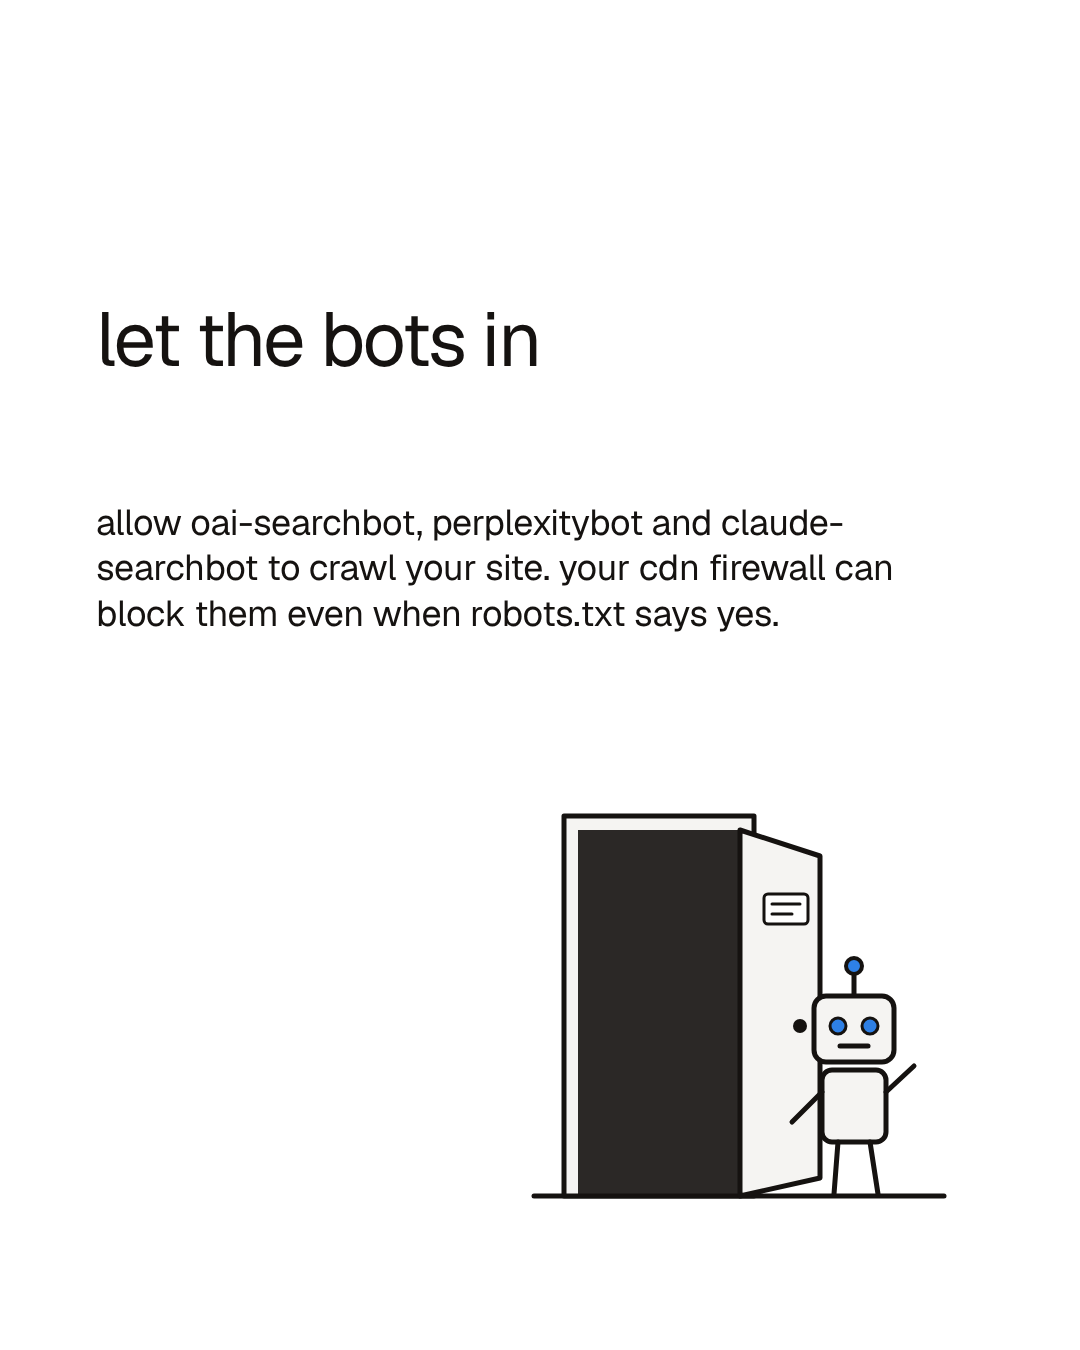
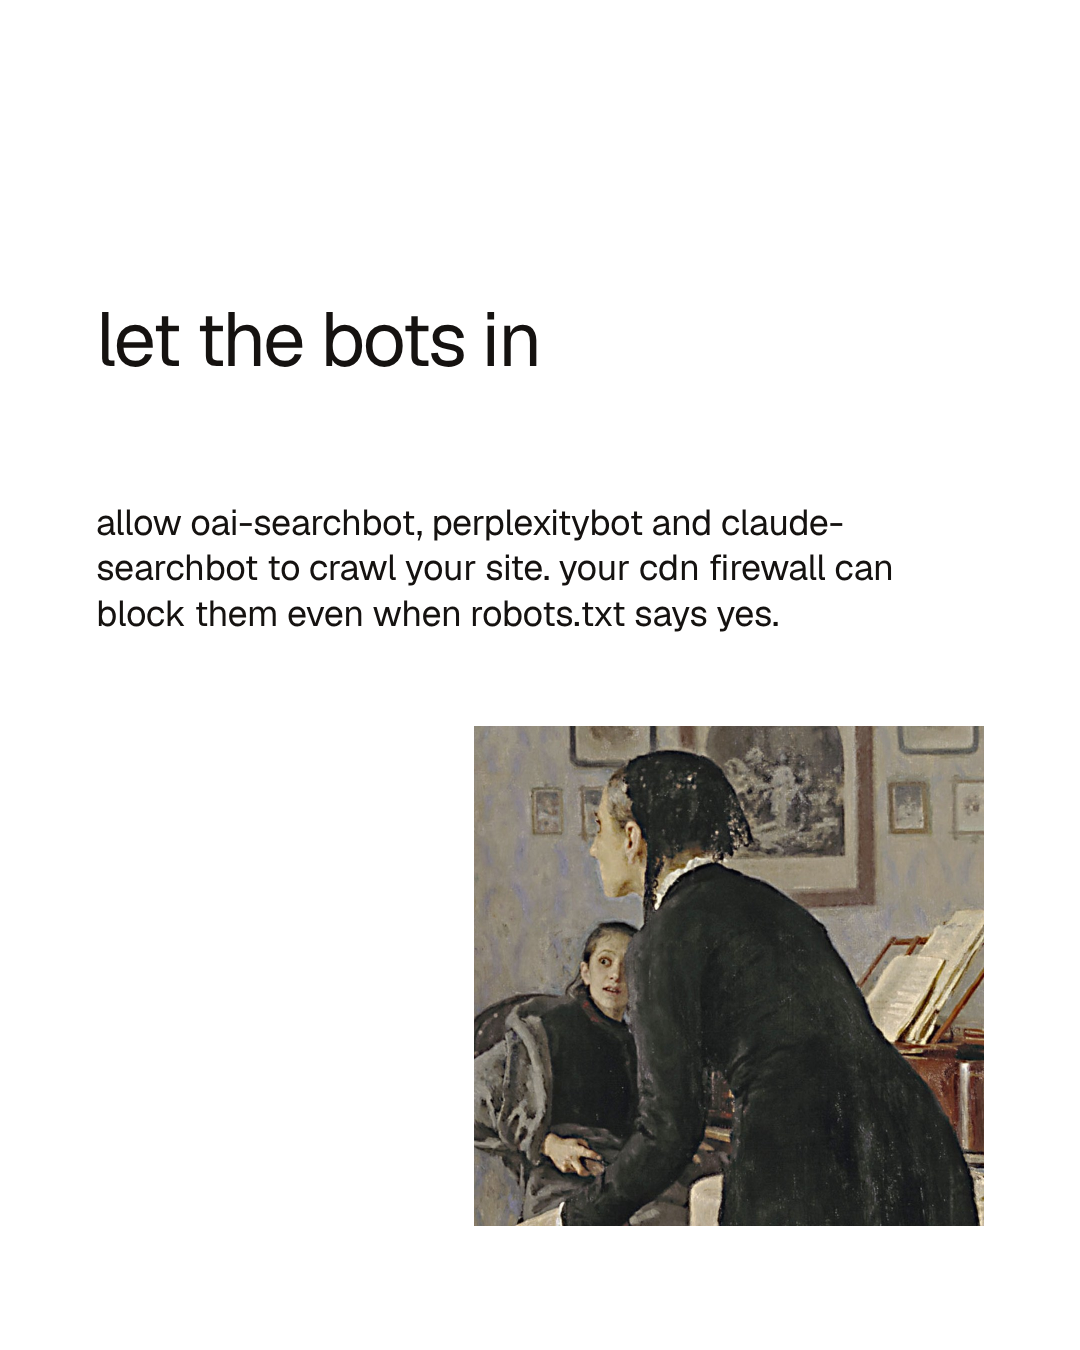
Switch inner slides to public-domain paintings; add crop and render scripts; tag library moods
Claude-Session: https://claude.ai/code/session_01KtCPqU1zLkcxhHZUWzrSrz

Changed region(s): [[0.4278, 0.5289, 0.9167, 0.9333]]

diff --git a/scripts/render.py b/scripts/render.py
@@ -1,0 +1,42 @@
+"""Render a carousel from a spec JSON.
+usage: python3 scripts/render.py spec.json
+spec: {"date":"YYYY-MM-DD", "cover":{"title","image":"cover-N.svg","hook"},
+       "inner":[{"title","body","image":"painting-....jpg"}...],
+       "closer":{"HEADLINE","SUBLINE","TONIGHT","THIS_WEEK","NEXT_WEEK","NEXT_TITLE"}, "outdir": optional}
+Needs: npm i geist (in the repo root), pip install playwright pillow. Paintings are cropped with scripts/crop.py.
+Prints per-slide layout metrics as JSON lines for checking."""
+import json, sys, pathlib, asyncio, subprocess, tempfile
+from playwright.async_api import async_playwright
+R = pathlib.Path(__file__).resolve().parent.parent
+spec = json.load(open(sys.argv[1]))
+out = pathlib.Path(spec['outdir']) if spec.get('outdir') else R/'posts'/spec['date']
+out.mkdir(parents=True, exist_ok=True)
+tmp = pathlib.Path(tempfile.mkdtemp())
+font = 'file://' + str(R/'node_modules/geist/dist/fonts/geist-sans/Geist-Regular.woff2')
+def fill(tpl, d):
+    h = (R/'templates'/tpl).read_text()
+    for k, v in dict(d, FONT_REGULAR=font).items(): h = h.replace('{{'+k+'}}', v)
+    assert '{{' not in h, tpl
+    return h
+c = spec['cover']
+pages = [fill('cover.html', {'TITLE': c['title'], 'COVER_IMAGE': 'file://'+str(R/'covers'/c['image']), 'HOOK': c['hook'], 'FEN_NEUTRAL': 'file://'+str(R/'brand/fen-neutral.svg')})]
+for i, s in enumerate(spec['inner']):
+    crop = tmp/f'img{i}.jpg'
+    subprocess.run([sys.executable, str(R/'scripts/crop.py'), s['image'], str(crop)], check=True)
+    pages.append(fill('inner.html', {'TITLE': s['title'], 'BODY': s['body'], 'IMAGE': 'file://'+str(crop)}))
+pages.append(fill('closer.html', spec['closer']))
+JS = '''()=>{const r=x=>{const e=document.querySelector(x);return e?e.getBoundingClientRect().toJSON():null};
+const h=document.querySelector('h1,h2');const lh=parseFloat(getComputedStyle(h).lineHeight);
+const im=document.querySelector('img.img');
+return {lines:Math.round(h.getBoundingClientRect().height/lh),text_bottom:(r('.s > p')||{}).bottom,img_top:(r('.img')||{}).top,
+hook_bottom:(r('.hook')||{}).bottom,fen_top:(r('img.fen')||{}).top,img_loaded:im?im.naturalWidth>0:null,font:document.fonts.check('40px Geist')}}'''
+async def main():
+    async with async_playwright() as p:
+        b = await p.chromium.launch(); pg = await b.new_page(viewport={'width':1080,'height':1350})
+        for i, h in enumerate(pages, 1):
+            f = tmp/f'slide-{i:02d}.html'; f.write_text(h)
+            await pg.goto('file://'+str(f)); await pg.evaluate('document.fonts.ready'); await pg.wait_for_timeout(300)
+            print(json.dumps({'slide': i, **await pg.evaluate(JS)}))
+            await pg.screenshot(path=str(out/f'slide-{i:02d}.png'))
+        await b.close()
+asyncio.run(main())

diff --git a/scripts/crop.py b/scripts/crop.py
@@ -1,0 +1,16 @@
+"""Crop a library painting to the inner-slide image frame (510x500, saved at 1020x1000).
+usage: python3 scripts/crop.py <file in library/> <out.jpg>
+Reads focus_x, focus_y, zoom for the file from library/library.csv (defaults 0.5, 0.4, 1.0)."""
+import csv, sys, pathlib
+from PIL import Image
+R = 510 / 500
+root = pathlib.Path(__file__).resolve().parent.parent
+name, out = sys.argv[1], sys.argv[2]
+row = next((r for r in csv.DictReader(open(root/'library/library.csv')) if r['file'] == name), {})
+fx = float(row.get('focus_x') or 0.5); fy = float(row.get('focus_y') or 0.4); zoom = float(row.get('zoom') or 1.0)
+im = Image.open(root/'library'/name).convert('RGB'); W, H = im.size
+if W / H > R: h = H * zoom; w = h * R
+else: w = W * zoom; h = w / R
+if h > H: h = H; w = h * R
+x = min(max(fx * W - w / 2, 0), W - w); y = min(max(fy * H - h / 2, 0), H - h)
+im.crop((int(x), int(y), int(x + w), int(y + h))).resize((1020, 1000), Image.LANCZOS).save(out, quality=88)
